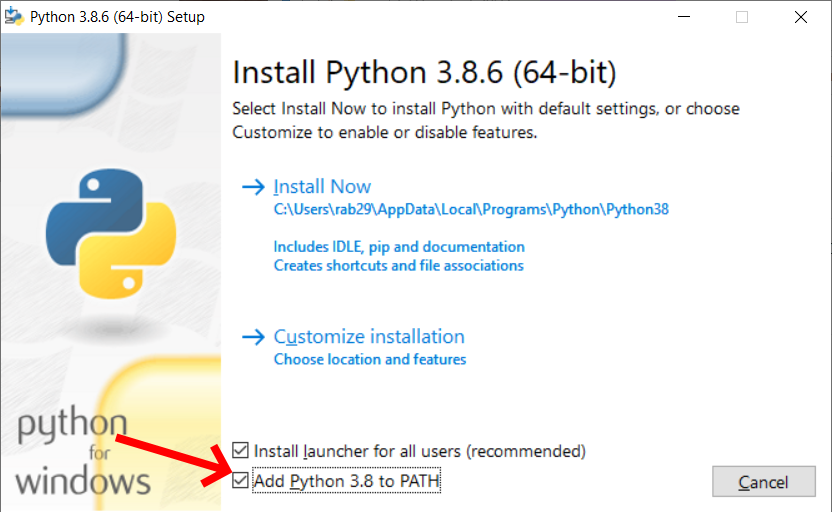
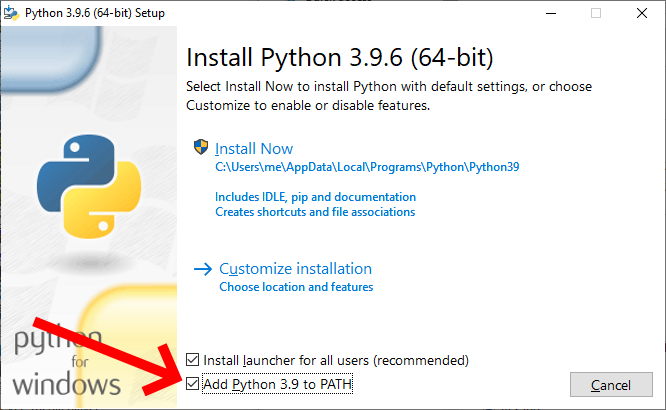
Change installation instructions from Python 3.8 to 3.9

diff --git a/docs/lesson01/dev_env.html b/docs/lesson01/dev_env.html
@@ -30,7 +30,7 @@
     <p>Each student in CSE&nbsp;111 must install and use three pieces of
     free software:</p>
     <ul>
-        <li><div>The Python Programming Language version 3.8</div></li>
+        <li><div>The Python Programming Language version 3.9</div></li>
         <li><div>Visual Studio Code (also known as VS Code)</div></li>
         <li><div>The Python extension in VS Code</div></li>
     </ul>
@@ -41,15 +41,14 @@
 
     <ol class="long">
         <li><div>Download and install the latest stable version of
-        Python 3.8. Some students report that Python 3.9 won't work for
-        some of the assignments in this course. As of November 2020, the
-        latest stable version of Python 3.8 is Python 3.8.6.
+        Python 3.9. As of July 2021, the latest stable version of Python
+        3.9 is Python 3.9.6.
 
         <ol>
             <li><div>Open the Python <a href="https://www.python.org/downloads/release">downloads page</a>
             in your browser.</div></li>
 
-            <li><div>Download and save the Python 3.8 installer for your
+            <li><div>Download and save the Python 3.9 installer for your
             operating system.</div></li>
 
             <li><div>Start installing Python by double clicking the file
@@ -57,7 +56,7 @@
 
             <li><div><p>On the first screen of the installer, be certain
             to check both boxes: "Install launcher..." and "Add Python
-            3.8 to PATH" as shown in this screen shot:</p>
+            3.9 to PATH" as shown in this screen shot:</p>
             <p><img src="install.png" style="width:100%;"
             alt="The first screen of the Python installer"
             title="The first screen of the Python installer"></p></div></li>
